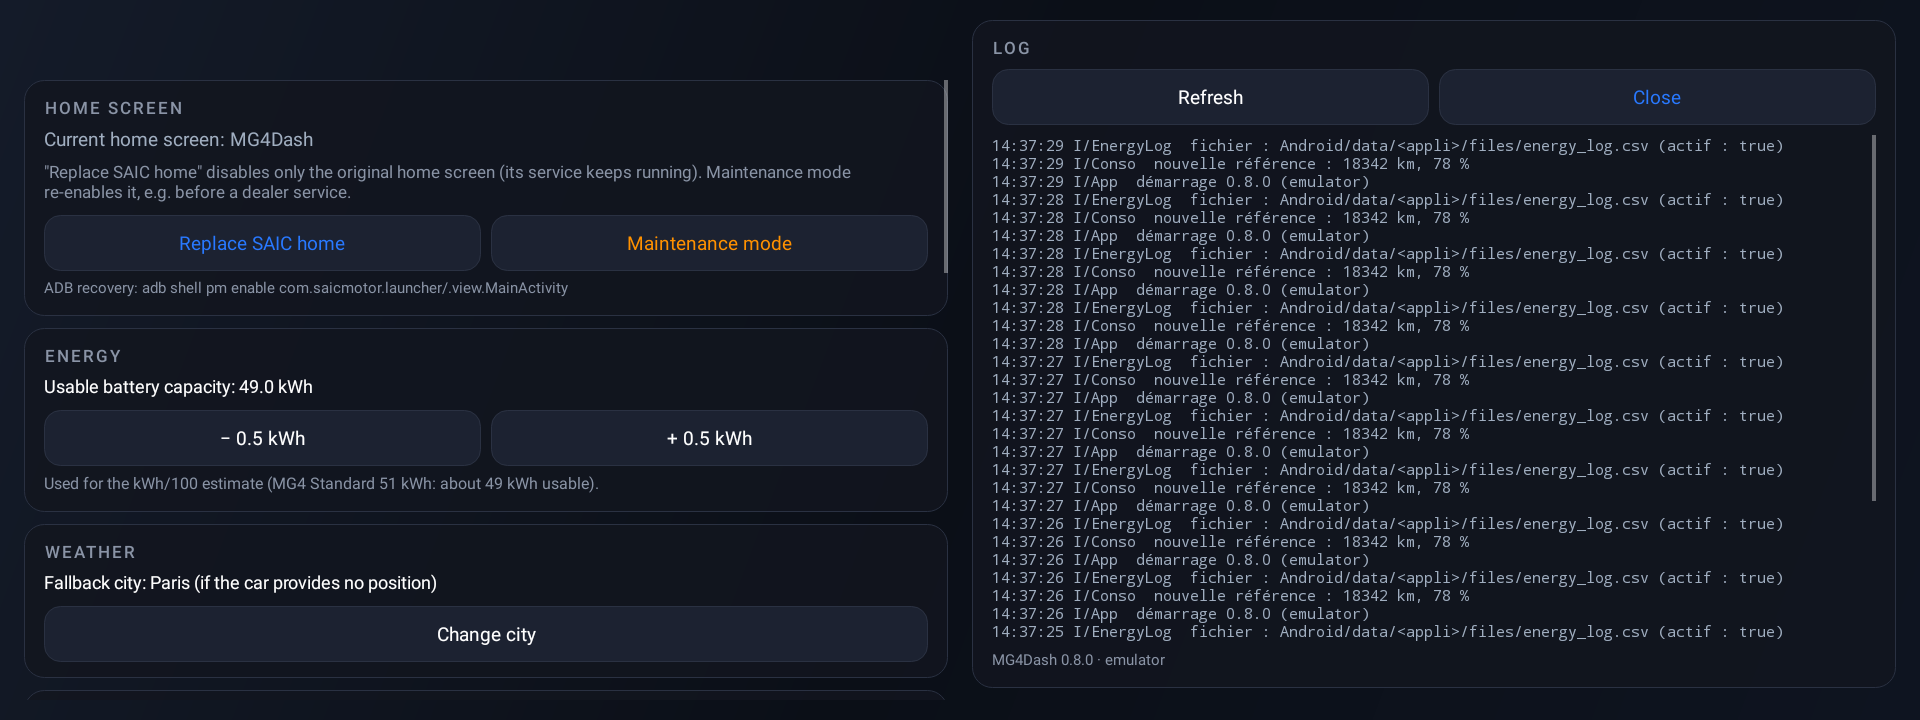
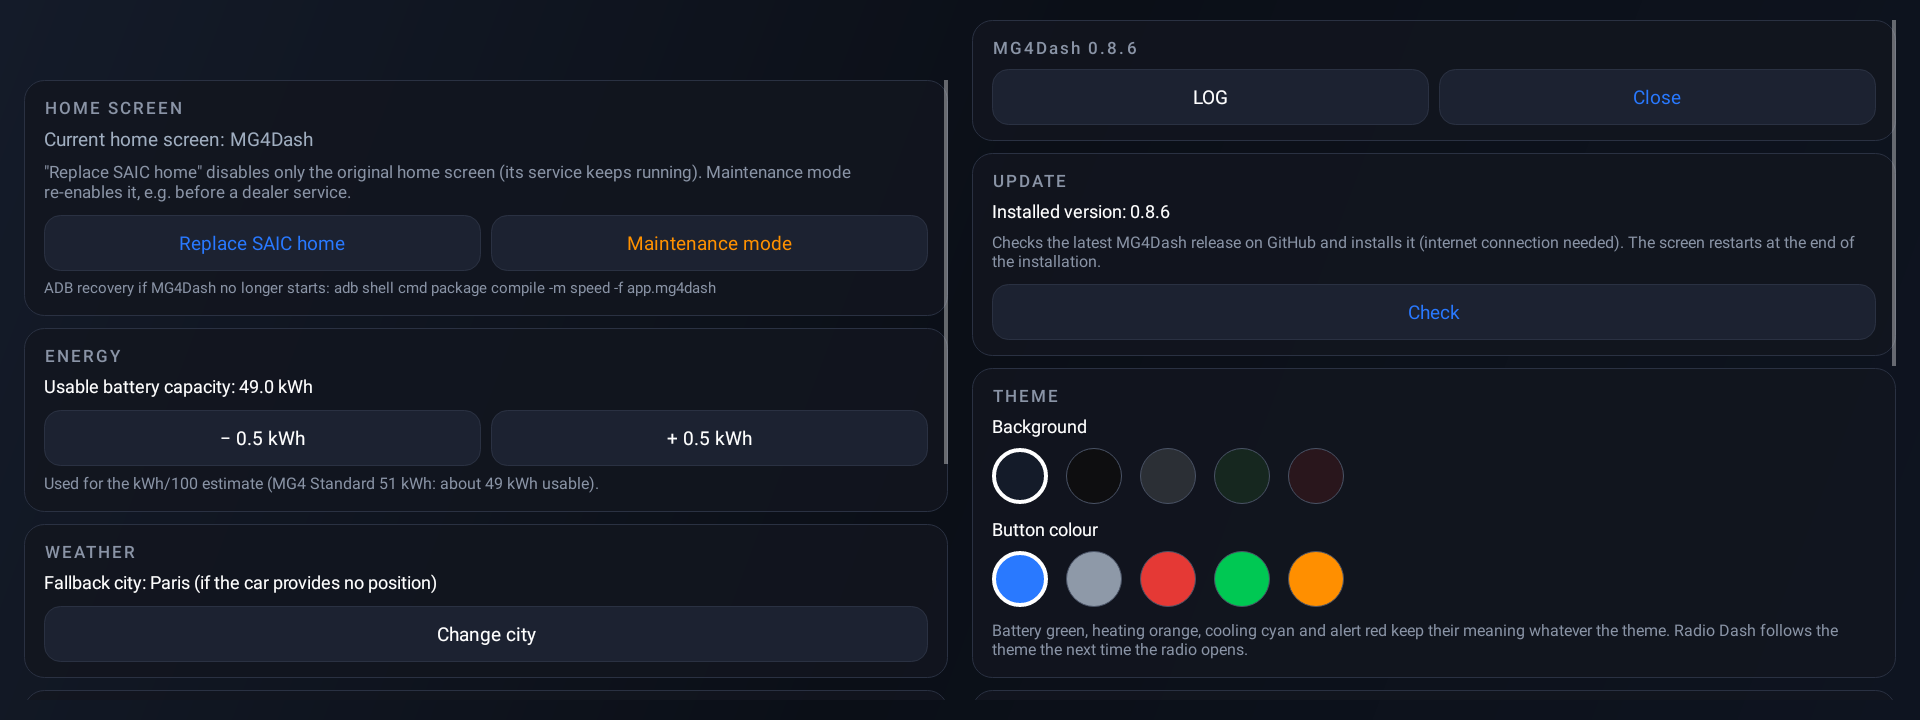
Settings: update popup with release notes (Install / Cancel), log moved to a dialog, settings over two columns

diff --git a/app/src/main/java/app/mg4dash/settings/SettingsActivity.kt b/app/src/main/java/app/mg4dash/settings/SettingsActivity.kt
@@ -33,7 +33,6 @@ class SettingsActivity : AppCompatActivity() {
 
     private lateinit var prefs: Prefs
     private lateinit var homeState: TextView
-    private lateinit var logView: TextView
 
     private val cities = listOf(
         Triple("Paris", 48.8566f, 2.3522f), Triple("Lyon", 45.764f, 4.8357f),
@@ -55,8 +54,17 @@ class SettingsActivity : AppCompatActivity() {
         val left = LinearLayout(this).apply { orientation = LinearLayout.VERTICAL }
         val right = LinearLayout(this).apply { orientation = LinearLayout.VERTICAL }
         root.addView(ScrollView(this).apply { addView(left) }, LinearLayout.LayoutParams(0, -1, 1f).apply { rightMargin = dp(12); topMargin = dp(60) /* zone antibrouillards */ })
-        root.addView(right, LinearLayout.LayoutParams(0, -1, 1f).apply { leftMargin = dp(12) })
+        val rightCol = LinearLayout(this).apply { orientation = LinearLayout.VERTICAL }
+        rightCol.addView(right)
+        root.addView(ScrollView(this).apply { addView(rightCol) }, LinearLayout.LayoutParams(0, -1, 1f).apply { leftMargin = dp(12) })
         setContentView(root)
+
+        // ── En-tête de la colonne droite : version, journal, fermer ──
+        val head = panel(right, "MG4Dash ${BuildConfig.VERSION_NAME}")
+        row(head,
+            button(getString(R.string.st_log)) { showLogDialog() },
+            button(getString(R.string.st_close), R.color.accent_action) { finish() },
+        )
 
         // ── Mode Entretien ──
         val valet = panel(left, getString(R.string.st_home))
@@ -110,54 +118,56 @@ class SettingsActivity : AppCompatActivity() {
         row(display, button(getString(R.string.st_toggle)) { prefs.fullscreen = !prefs.fullscreen; showFs(); Fullscreen.apply(this) })
 
         // ── Mise à jour depuis GitHub ──
-        val upd = panel(left, getString(R.string.st_update))
+        val upd = panel(right, getString(R.string.st_update))
         val updState = text(upd, getString(R.string.st_update_installed, BuildConfig.VERSION_NAME), 18f, R.color.text_value)
         text(upd, getString(R.string.st_update_desc), 16f, R.color.text_title)
-        var found: app.mg4dash.system.Updater.Release? = null
-        lateinit var installBtn: Button
-        val checkBtn = button(getString(R.string.st_update_check)) {
+        fun install(r: app.mg4dash.system.Updater.Release) {
+            lifecycleScope.launch {
+                try {
+                    val apk = withContext(Dispatchers.IO) {
+                        app.mg4dash.system.Updater.download(this@SettingsActivity, r) { pct ->
+                            runOnUiThread { updState.text = getString(R.string.st_update_downloading, pct) }
+                        }
+                    }
+                    updState.text = getString(R.string.st_update_installing)
+                    withContext(Dispatchers.IO) { app.mg4dash.system.Updater.install(this@SettingsActivity, apk) }
+                } catch (e: Exception) {
+                    Log.w("MàJ", "échec : ${e.message}")
+                    updState.text = getString(R.string.st_update_error)
+                }
+            }
+        }
+        row(upd, button(getString(R.string.st_update_check), R.color.accent_action) {
             updState.text = getString(R.string.st_update_checking)
             lifecycleScope.launch {
                 val r = withContext(Dispatchers.IO) { try { app.mg4dash.system.Updater.latest() } catch (e: Exception) { Log.w("MàJ", "${e.message}"); null } }
-                found = r?.takeIf { app.mg4dash.system.Updater.isNewer(it.version) }
+                val newer = r?.takeIf { app.mg4dash.system.Updater.isNewer(it.version) }
                 updState.text = when {
                     r == null -> getString(R.string.st_update_error)
-                    found != null -> getString(R.string.st_update_available, BuildConfig.VERSION_NAME, r.version)
+                    newer != null -> getString(R.string.st_update_available, BuildConfig.VERSION_NAME, r.version)
                     else -> getString(R.string.st_update_uptodate, BuildConfig.VERSION_NAME)
                 }
-                installBtn.isEnabled = found != null
-            }
-        }
-        installBtn = button(getString(R.string.st_update_install), R.color.accent_action) {
-            val r = found ?: return@button
-            android.app.AlertDialog.Builder(this)
-                .setTitle(R.string.st_update)
-                .setMessage(getString(R.string.st_update_confirm, r.version))
-                .setPositiveButton(R.string.st_update_install) { _, _ ->
-                    installBtn.isEnabled = false
-                    lifecycleScope.launch {
-                        try {
-                            val apk = withContext(Dispatchers.IO) {
-                                app.mg4dash.system.Updater.download(this@SettingsActivity, r) { pct ->
-                                    runOnUiThread { updState.text = getString(R.string.st_update_downloading, pct) }
-                                }
-                            }
-                            updState.text = getString(R.string.st_update_installing)
-                            withContext(Dispatchers.IO) { app.mg4dash.system.Updater.install(this@SettingsActivity, apk) }
-                        } catch (e: Exception) {
-                            Log.w("MàJ", "échec : ${e.message}")
-                            updState.text = getString(R.string.st_update_error)
-                            installBtn.isEnabled = true
-                        }
+                // Nouvelle version : notes de la release et choix Installer / Annuler
+                if (newer != null && !isFinishing) {
+                    val notes = ScrollView(this@SettingsActivity).apply {
+                        setPadding(dp(24), dp(8), dp(24), 0)
+                        addView(TextView(this@SettingsActivity).apply {
+                            text = plainNotes(newer.notes); setTextSize(TypedValue.COMPLEX_UNIT_SP, 18f)
+                            setTextColor(color(R.color.text_value)); setLineSpacing(0f, 1.15f)
+                        })
                     }
+                    AlertDialog.Builder(this@SettingsActivity)
+                        .setTitle(getString(R.string.st_update_available, BuildConfig.VERSION_NAME, newer.version))
+                        .setView(notes)
+                        .setPositiveButton(R.string.st_update_install) { _, _ -> install(newer) }
+                        .setNegativeButton(R.string.cancel, null)
+                        .show()
                 }
-                .setNegativeButton(R.string.cancel, null)
-                .show()
-        }.apply { isEnabled = false }
-        row(upd, checkBtn, installBtn)
+            }
+        })
 
         // ── Thème : fond et couleur des boutons ──
-        val theme = panel(left, getString(R.string.st_theme))
+        val theme = panel(right, getString(R.string.st_theme))
         text(theme, getString(R.string.st_theme_bg), 18f, R.color.text_value)
         swatches(theme, app.mg4dash.ui.Themes.BACKGROUND_SWATCHES, prefs.themeBackground) { prefs.themeBackground = it; onThemeChanged() }
         text(theme, getString(R.string.st_theme_accent), 18f, R.color.text_value)
@@ -165,7 +175,7 @@ class SettingsActivity : AppCompatActivity() {
         text(theme, getString(R.string.st_theme_desc), 16f, R.color.text_title)
 
         // ── Style de l'accueil ──
-        val style = panel(left, getString(R.string.st_style))
+        val style = panel(right, getString(R.string.st_style))
         val styleState = text(style, "", 18f, R.color.text_value)
         fun showStyle() {
             styleState.text = getString(R.string.st_style_now, getString(if (prefs.homeStyle == 1) R.string.st_style_simple else R.string.st_style_full))
@@ -178,7 +188,7 @@ class SettingsActivity : AppCompatActivity() {
         )
 
         // ── Diagnostic énergie ──
-        val diag = panel(left, getString(R.string.st_diag))
+        val diag = panel(right, getString(R.string.st_diag))
         val logState = text(diag, "", 18f, R.color.text_value)
         fun showLog() { logState.text = getString(R.string.st_energy_log, getString(if (prefs.energyLog) R.string.yes else R.string.no)) }
         showLog()
@@ -186,7 +196,7 @@ class SettingsActivity : AppCompatActivity() {
         row(diag, button(getString(R.string.st_toggle)) { prefs.energyLog = !prefs.energyLog; showLog() })
 
         // ── Home Assistant ──
-        val ha = panel(left, "HOME ASSISTANT")
+        val ha = panel(right, "HOME ASSISTANT")
         val haState = text(ha, "", 18f, R.color.text_value)
         fun showHa() {
             haState.text = getString(R.string.st_ha_url, prefs.haUrl.ifBlank { "—" }) + "\n" +
@@ -208,20 +218,7 @@ class SettingsActivity : AppCompatActivity() {
             },
         )
 
-        // ── Journal ──
-        val logs = panel(right, getString(R.string.st_log), fill = true)
-        row(logs,
-            button(getString(R.string.st_refresh)) { refreshLog() },
-            button(getString(R.string.st_close), R.color.accent_action) { finish() },
-        )
-        logView = TextView(this).apply {
-            setTextColor(color(R.color.text_sub)); setTextSize(TypedValue.COMPLEX_UNIT_SP, 15f)
-            typeface = Typeface.MONOSPACE; setTextIsSelectable(true)
-        }
-        logs.addView(ScrollView(this).apply { addView(logView) }, LinearLayout.LayoutParams(-1, 0, 1f).apply { topMargin = dp(10) })
-        text(logs, "MG4Dash ${BuildConfig.VERSION_NAME} · ${BuildConfig.FLAVOR}", 15f, R.color.text_title)
-
-        refreshHome(); refreshLog()
+        refreshHome()
     }
 
     override fun onResume() {
@@ -269,7 +266,28 @@ class SettingsActivity : AppCompatActivity() {
         })
     }
 
-    private fun refreshLog() { logView.text = Log.snapshot().joinToString("\n") }
+    /** Journal dans une fenêtre, à la demande. */
+    private fun showLogDialog() {
+        val view = TextView(this).apply {
+            setTextColor(color(R.color.text_sub)); setTextSize(TypedValue.COMPLEX_UNIT_SP, 15f)
+            typeface = Typeface.MONOSPACE; setTextIsSelectable(true)
+            text = Log.snapshot().joinToString("\n")
+            setPadding(dp(20), dp(8), dp(20), dp(8))
+        }
+        val d = AlertDialog.Builder(this)
+            .setTitle(getString(R.string.st_log) + " · MG4Dash ${BuildConfig.VERSION_NAME} · ${BuildConfig.FLAVOR}")
+            .setView(ScrollView(this).apply { addView(view) })
+            .setNeutralButton(R.string.st_refresh, null)
+            .setPositiveButton(R.string.st_close, null)
+            .show()
+        d.getButton(AlertDialog.BUTTON_NEUTRAL).setOnClickListener { view.text = Log.snapshot().joinToString("\n") }
+    }
+
+    /** Notes de release GitHub (Markdown) en texte lisible. */
+    private fun plainNotes(md: String): String = md
+        .replace("**", "").replace("`", "")
+        .lines().joinToString("\n") { l -> l.trim().let { if (it.startsWith("- ")) "•  " + it.drop(2) else it } }
+        .trim()
 
     private fun onThemeChanged() {
         app.mg4dash.ui.Themes.publish(this)

diff --git a/README.md b/README.md
@@ -41,7 +41,7 @@ Drive mode, KERS, driver assistance and vehicle status, read only, with a shortc
 Recent calls, contacts with a search field and a keypad, from the phone connected over Bluetooth. Calls go through the hands-free (HFP) account, like the stock phone app, whose in-call screen is kept.
 
 ### Launcher settings
-![Settings](docs/screenshots/settings.png?v=5)
+![Settings](docs/screenshots/settings.png?v=6)
 Home screen (replace the SAIC home / maintenance mode), battery capacity, weather city, startup, full screen, energy data recorder, Home Assistant and a built-in log.
 
 ## Project layout
